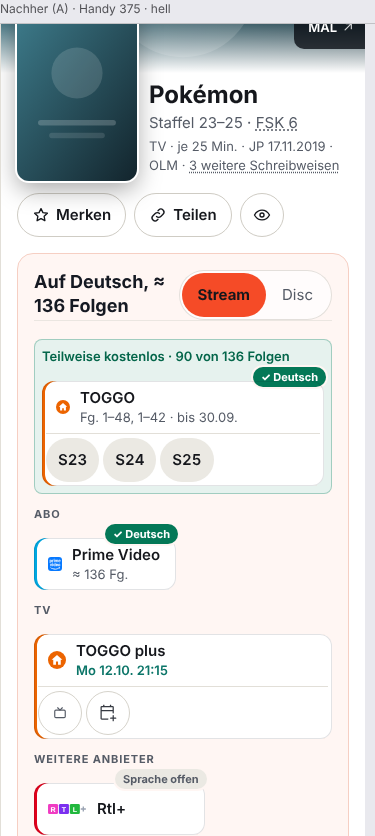
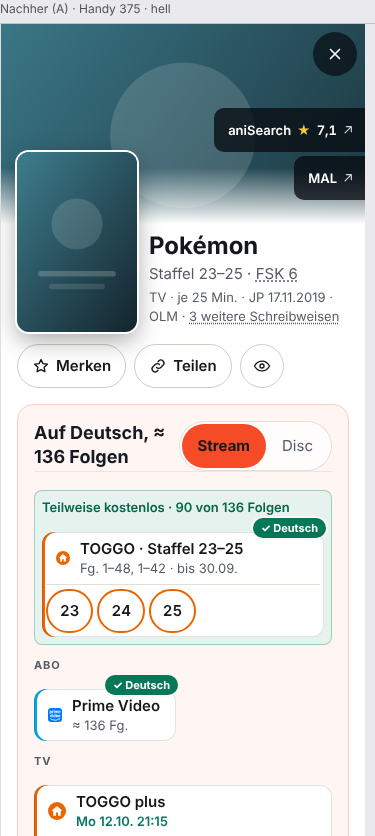
feat(panel): TOGGO-Staffelknöpfe – je Staffel ein Absprung bei gebündelten Titeln
Trägt tg der Folgenliste mindestens zwei verschiedene TOGGO-Adressen, ersetzt das Panel die TOGGO-Pille durch eine Fläche „TOGGO · Staffel 1–5“ mit je einem Zahlenknopf (mindestens 44 px, Rahmen in der Anbieterfarbe, neuer Tab). Die Pille bleibt in ihrer Zugangsgruppe. Nachbau-Teile des Mockups toggo-pillen entfallen; Variante A zeigt die echte Komponente (F158).

diff --git a/tools/buehne-toggo-pillen.test.ts b/tools/buehne-toggo-pillen.test.ts
@@ -1,11 +1,15 @@
 /**
- * Test der Absprünge des Mockups `toggo-pillen` (`web/buehne/mockups/toggo-pillen-liste.ts`) an den echten, eingefrorenen Fällen der Bühne:
- * Pokémon (Staffel 1–5) → fünf Seiten, Pokémon Reisen (Staffel 23–25) → drei; führen alle Staffeln auf dieselbe Adresse, bleibt es bei einer Pille.
+ * Test der Staffelknöpfe an TOGGO-Pillen (`web/src/lib/staffel-ziele.ts`, `web/src/components/detail/staffel-knoepfe.tsx`) an den echten, eingefrorenen Fällen der Bühne:
+ * Pokémon (Staffel 1–5) → fünf Knöpfe, Pokémon Reisen (Staffel 23–25) → drei; führen alle Staffeln auf dieselbe Adresse, bleibt es bei einer Pille.
  */
 import assert from 'node:assert/strict'
 import { readFileSync } from 'node:fs'
 import { fileURLToPath } from 'node:url'
-import { staffelZiele } from '../web/buehne/mockups/toggo-pillen-liste.ts'
+import { createElement } from 'react'
+import { renderToStaticMarkup } from 'react-dom/server'
+import { staffelSpanne, staffelZiele } from '../web/src/lib/staffel-ziele.ts'
+import { mitStaffelKnoepfen } from '../web/src/components/detail/staffel-knoepfe.tsx'
+import { Pille } from '../web/src/components/detail/pille.tsx'
 import { mockupMit } from '../web/buehne/register.ts'
 
 const datei = fileURLToPath(new URL('../web/buehne/faelle.json', import.meta.url))
@@ -13,9 +17,12 @@ const faelle = JSON.parse(readFileSync(datei, 'utf8')).faelle as Record<string, 
 const folgen = faelle['pokemon-horizonte']!.folgen
 
 const sammel = staffelZiele(folgen['483']!.tg)!
-assert.deepEqual(sammel.map((z) => z.label), ['S1', 'S2', 'S3', 'S4', 'S5'])
+assert.deepEqual(sammel.map((z) => z.nummer), ['1', '2', '3', '4', '5'])
 assert.deepEqual(sammel.map((z) => z.url.split('/').pop()), ['pokemon-indigo-liga', 'pokemon-orange-liga', 'pokemon-die-johto-reisen', 'pokemon-die-johto-liga-champions', 'pokemon-master-quest'])
-assert.deepEqual(staffelZiele(folgen['10852']!.tg)!.map((z) => z.label), ['S23', 'S24', 'S25'])
+assert.deepEqual(staffelSpanne(sammel), { von: 1, bis: 5 })
+const reisen = staffelZiele(folgen['10852']!.tg)!
+assert.deepEqual(reisen.map((z) => z.nummer), ['23', '24', '25'])
+assert.deepEqual(staffelSpanne(reisen), { von: 23, bis: 25 })
 
 // Gegenfall: alle Staffeln führen auf dieselbe Adresse (wie bei Netflix: ein Titel, eine Adresse) → nicht aufteilen; ebenso eine Staffel und keine Angabe.
 const eine = 'https://www.toggo.de/pokemon/serien/pokemon-horizonte-die-serie-vse292'
@@ -26,11 +33,28 @@ assert.equal(staffelZiele(folgen['14838']!.tg), undefined)
 
 // Teilen sich Staffeln eine Adresse, steht eine Beschriftung für beide; Reihenfolge nach Staffelnummer auch bei umgekehrter Eingabe.
 const gemischt = staffelZiele([[16, 'https://x.invalid/b'], [15, 'https://x.invalid/a'], [16, 'https://x.invalid/a']])!
-assert.deepEqual(gemischt.map((z) => [z.label, z.url]), [['S15–16', 'https://x.invalid/a'], ['S16', 'https://x.invalid/b']])
+assert.deepEqual(gemischt.map((z) => [z.nummer, z.url]), [['15–16', 'https://x.invalid/a'], ['16', 'https://x.invalid/b']])
+assert.deepEqual(staffelSpanne(gemischt), { von: 15, bis: 16 })
 
-// Das Mockup ist angemeldet, zwei Varianten, beide Fälle gibt es.
+// Die Pille: nur die TOGGO-Pille wird zur Knopffläche (gleicher key), alles andere bleibt dieselbe Instanz.
+const t = ((k: string, v?: Record<string, string | number>) => (k === 'detail.staffelBereich' ? `Staffel ${v!.von}–${v!.bis}` : `Staffel ${v!.n}`)) as never
+const toggo = createElement(Pille, { key: 'sw-TOGGO-https://x', name: 'TOGGO', farbe: '#ff0066', url: 'https://www.toggo.de/pokemon' })
+const netflix = createElement(Pille, { key: 'sw-Netflix-https://n', name: 'Netflix', url: 'https://www.netflix.com/x' })
+assert.equal(mitStaffelKnoepfen([toggo, netflix], undefined, t)[0], toggo)
+const neu = mitStaffelKnoepfen([toggo, netflix], sammel, t)
+assert.equal(neu[1], netflix)
+assert.equal((neu[0] as { key: string }).key, 'sw-TOGGO-https://x')
+const html = renderToStaticMarkup(createElement('div', null, neu))
+assert.match(html, /TOGGO · Staffel 1–5/)
+assert.equal((html.match(/min-h-11/g) ?? []).length, 5)
+assert.match(html, /aria-label="TOGGO, Staffel 3"/)
+assert.match(html, /href="https:\/\/www\.toggo\.de\/pokemon\/serien\/pokemon-die-johto-reisen"[^>]*target="_blank"/)
+assert.doesNotMatch(html, /href="https:\/\/www\.toggo\.de\/pokemon"/)
+assert.match(renderToStaticMarkup(createElement('div', null, mitStaffelKnoepfen([toggo], gemischt, t))), /aria-label="TOGGO, Staffel 15–16"/)
+
+// Das Mockup ist angemeldet, eine Variante (A, entschieden F158), beide Fälle gibt es.
 await import('../web/buehne/mockups/toggo-pillen.tsx')
 const m = mockupMit('toggo-pillen')!
-assert.deepEqual(Object.keys(m.varianten), ['A', 'B'])
+assert.deepEqual(Object.keys(m.varianten), ['A'])
 for (const f of m.faelle) assert.ok(f === 'pokemon-sammeltitel' || f === 'pokemon-reisen')
 console.log('buehne-toggo-pillen: ok')

diff --git a/web/buehne/mockups/toggo-pillen.tsx b/web/buehne/mockups/toggo-pillen.tsx
@@ -1,20 +1,15 @@
 import { mockup } from '../register.ts'
-import { KastenMitTitel, toggoKastenPillen } from './toggo-pillen-teile.tsx'
 
-/** Beide Varianten: der Kasten trägt die Titelkennung, die TOGGO-Pille wird je Staffelseite aufgeteilt (nur bei mindestens zwei verschiedenen Adressen). */
+/** Entschieden (F158, 24.11.2026): Variante A. Seit dem Bau ist sie die echte Komponente (`staffel-knoepfe.tsx`), das Mockup zeigt sie ohne Ersatz und dient als Bildvergleich. */
 mockup({
   name: 'toggo-pillen',
-  titel: 'Gebündelte Staffeln: eine TOGGO-Pille, ein Absprung je Staffel',
+  titel: 'Gebündelte Staffeln: eine TOGGO-Fläche, ein Absprung je Staffel',
   ausschnitt: 'detailpanel',
   faelle: ['pokemon-sammeltitel', 'pokemon-reisen'],
   varianten: {
     A: {
-      ersatz: { AntwortKasten: KastenMitTitel, KastenPillen: toggoKastenPillen('A') },
-      notiz: 'Eine TOGGO-Pille bleibt, überschrieben „TOGGO · Staffel 1–5“ (der Bereich, den dieser Anbieter führt), darunter in ihrer Fläche je Staffel ein Knopf nur mit der Zahl (1 bis 5, Rahmen in der Anbieterfarbe, mindestens 44 px) mit der Seite dieser Staffel bei TOGGO. Der Sprachhinweis steht einmal. Netflix, Prime Video und RTL+ führen mit einer Adresse auf den ganzen Titel: eine Pille wie heute. Pokémon (Staffel 1–5): fünf Knöpfe; Pokémon Reisen (Staffel 23–25): drei. Die Adressen sind die der Folgenliste (`tg`), keine ergänzt.',
-    },
-    B: {
-      ersatz: { AntwortKasten: KastenMitTitel, KastenPillen: toggoKastenPillen('B') },
-      notiz: 'Je Staffel eine eigene TOGGO-Pille („Staffel 1“ …), die direkt auf die Seite der Staffel führt; der Sprachhinweis nur an der ersten; die Folgenangabe der einen Pille („Fg. 1–48 · bis 30.09.“) entfällt, an ihrer Stelle steht die Staffel. Mehr Fläche (am Handy zwei Pillen je Zeile), dafür ein Tipp ohne Umweg. Netflix, Prime Video und RTL+ bleiben eine Pille, weil alle Staffeln auf dieselbe Adresse führen.',
+      ersatz: {},
+      notiz: 'In der Zugangsgruppe „Kostenlos“ steht eine TOGGO-Fläche „TOGGO · Staffel 1–5“, darin je Staffel ein Knopf mit der Zahl (mindestens 44 px, Rahmen in der Anbieterfarbe) und der Seite dieser Staffel bei TOGGO. Netflix, Prime Video und RTL+ führen mit einer Adresse auf den ganzen Titel: eine Pille wie bisher. Pokémon (Staffel 1–5): fünf Knöpfe; Pokémon Reisen (Staffel 23–25): drei. Die Adressen sind die der Folgenliste (`tg`), keine ergänzt.',
     },
   },
 })

diff --git a/web/src/components/detail/staffel-knoepfe.tsx b/web/src/components/detail/staffel-knoepfe.tsx
@@ -1,0 +1,41 @@
+import { isValidElement, type ComponentProps, type ReactElement, type ReactNode } from 'react'
+import { staffelSpanne, type StaffelZiel } from '../../lib/staffel-ziele.ts'
+import { Pille } from './pille.tsx'
+
+type Translate = (k: string, v?: Record<string, string | number>) => string
+
+type PilleEigenschaften = ComponentProps<typeof Pille>
+
+const KNOPF = 'inline-flex min-h-11 min-w-11 items-center justify-center rounded-full border-2 px-3 text-t3 font-semibold tabular-nums text-ak-text transition hover:bg-ak-pille-hover'
+
+const staffelText = (t: Translate, n: string | number) => t('detail.staffelNummer', { n })
+
+/** Eine TOGGO-Fläche statt einer Pille: Überschrift „TOGGO · Staffel 1–5“, darin je Adresse ein Zahlenknopf (mindestens 44 px, Rahmen in der Anbieterfarbe). */
+export function PilleMitKnoepfen({ eig, ziele, t }: { eig: PilleEigenschaften; ziele: StaffelZiel[]; t: Translate }) {
+  const { von, bis } = staffelSpanne(ziele)
+  const bereich = von === bis ? staffelText(t, von) : t('detail.staffelBereich', { von, bis })
+  return (
+    <Pille
+      {...eig}
+      name={`${String(eig.name)} · ${bereich}`}
+      url={undefined}
+      fuss={
+        <div role="group" aria-label={`${String(eig.name)}, ${bereich}`} className="flex flex-wrap gap-1">
+          {ziele.map((z) => (
+            <a key={z.url} href={z.url} target="_blank" rel="noreferrer noopener" aria-label={`${String(eig.name)}, ${staffelText(t, z.nummer)}`} className={KNOPF} style={{ borderColor: eig.farbe }}>
+              {z.nummer}
+            </a>
+          ))}
+        </div>
+      }
+    />
+  )
+}
+
+const istToggoWeg = (n: ReactNode): n is ReactElement<PilleEigenschaften> => isValidElement(n) && String(n.key).startsWith('sw-TOGGO-')
+
+/** Ersetzt die TOGGO-Pille der Wege durch die Knopffläche (mit demselben `key`: die Zugangsgruppe hängt daran); ohne Staffelseiten bleibt alles wie es ist. */
+export function mitStaffelKnoepfen(pillen: ReactNode[], ziele: StaffelZiel[] | undefined, t: Translate): ReactNode[] {
+  if (!ziele) return pillen
+  return pillen.map((n) => (istToggoWeg(n) ? <PilleMitKnoepfen key={n.key} eig={n.props} ziele={ziele} t={t} /> : n))
+}

diff --git a/web/src/components/detail/folgen-bereich.tsx b/web/src/components/detail/folgen-bereich.tsx
@@ -7,6 +7,7 @@ import { folgeIstDeutsch } from './stream-bereiche.ts'
 import { SERIENBELEG_HINWEIS, serienbelegOhneFolgenbeleg } from '@shared/folgen-flagge.ts'
 import { staffelAbschnitte, staffelZeile, type StaffelZeile } from './folgen-staffeln.ts'
 import type { FolgenZaehlung } from './antwort-regeln.ts'
+import { staffelZiele, type StaffelZiel } from '../../lib/staffel-ziele.ts'
 
 /**
  * **Die Folgenliste im Antwortkasten** (Daniel, 04.10.2026): Ein Pfeil klappt sie auf, der Kasten wächst mit,
@@ -26,6 +27,8 @@ interface Liste {
   h?: [number, string][]
   /** Deutsche Staffelgrenzen (`folgen-staffeln.ts`): Reiter je Staffel statt Paketen. */
   s?: StaffelZeile[]
+  /** TOGGO-Seite je Staffel: `[Staffelnummer, Adresse]`. */
+  tg?: [number, string][]
 }
 
 const PAKET = 50
@@ -65,6 +68,23 @@ export function useStaffelGrenzen(titleId: number): StaffelZeile[] | undefined {
     }
   }, [titleId])
   return s
+}
+
+/** Die TOGGO-Seiten je Staffel (`tg` der Folgenliste), solange sie verschieden sind; ohne Liste oder bei einer Adresse nichts. */
+export function useStaffelZiele(titleId: number): StaffelZiel[] | undefined {
+  const [ziele, setZiele] = useState<StaffelZiel[]>()
+  useEffect(() => {
+    setZiele(undefined)
+    let aktiv = true
+    void holeVerzeichnis()
+      .then((v) => (v.has(titleId) ? holeListe(titleId) : null))
+      .then((l) => aktiv && setZiele(l ? staffelZiele(l.tg) : undefined))
+      .catch(() => aktiv && setZiele(undefined))
+    return () => {
+      aktiv = false
+    }
+  }, [titleId])
+  return ziele
 }
 
 let zaehlungen: Promise<Record<string, FolgenZaehlung>> | undefined

diff --git a/web/src/components/detail/antwort-kasten-zustand.tsx b/web/src/components/detail/antwort-kasten-zustand.tsx
@@ -1,6 +1,7 @@
 import { type ReactNode, useState } from 'react'
 import { ankuendigungOhneTermin } from '@shared/ankuendigung.ts'
-import { useKopfZahlen } from './folgen-bereich.tsx'
+import { useKopfZahlen, useStaffelZiele } from './folgen-bereich.tsx'
+import { mitStaffelKnoepfen } from './staffel-knoepfe.tsx'
 import { gruppeVon as gruppeVonPille, sichtbareStreamPillen } from './stream-pillen.ts'
 import { erstausgabeAlsNeuigkeit } from './antwort-regeln.ts'
 import { abstandImSatz } from '../../lib/abstand.ts'
@@ -24,6 +25,7 @@ export function useKastenZustand(p: Required<Pick<AntwortKastenProps, 'stream' |
     kostet keine Höhe mehr.
   */
   const [zeigeDisc, setZeigeDisc] = useState(discZuerst); const { folgenZahl, staffeln } = useKopfZahlen(title.id)
+  const staffelZiele = useStaffelZiele(title.id)
   /*
     **Wo noch nichts erschienen ist, gibt es nichts zu sehen.**
 
@@ -41,7 +43,7 @@ export function useKastenZustand(p: Required<Pick<AntwortKastenProps, 'stream' |
   const beides = streamPillen.length > 0 && disc.length > 0
   /* Der Umschalter zeigt nur Seiten mit Pillen; eine einzelne bleibt als Etikett (Kaufpille = „Disc"). */
   const aktivDisc = beides ? zeigeDisc : streamPillen.length === 0
-  const pillen = aktivDisc ? disc : streamPillen
+  const pillen = aktivDisc ? disc : mitStaffelKnoepfen(streamPillen, staffelZiele, t as unknown as Uebersetzer)
   const T = t as unknown as Uebersetzer
   /*
     **Kostenlos ist ein eigener Bereich** (Daniel, 19.09.2026: „trenn die bereiche, sodass es

diff --git a/web/src/lib/staffel-ziele.ts b/web/src/lib/staffel-ziele.ts
@@ -1,0 +1,28 @@
+/** Eine Staffelseite bei TOGGO: Beschriftung (`nummer`: „3“ oder „15–16“), die Staffeln dahinter und die Adresse aus `tg` der Folgenliste. */
+export interface StaffelZiel {
+  nummer: string
+  staffeln: number[]
+  url: string
+}
+
+/**
+ * Die Absprünge einer gebündelten Pille: je **verschiedener** Adresse einer (Staffeln mit derselben Adresse teilen sich eine Beschriftung).
+ * Führen alle Staffeln auf dieselbe Adresse, oder gibt es keine zwei, bleibt es bei einer Pille (`undefined`).
+ */
+export function staffelZiele(tg: [number, string][] | undefined): StaffelZiel[] | undefined {
+  const jeAdresse = new Map<string, number[]>()
+  for (const [nr, url] of tg ?? []) jeAdresse.set(url, [...(jeAdresse.get(url) ?? []), nr])
+  if (jeAdresse.size < 2) return undefined
+  return [...jeAdresse]
+    .map(([url, nummern]) => {
+      const staffeln = [...nummern].sort((a, b) => a - b)
+      return { nummer: staffeln.length > 1 ? `${staffeln[0]}–${staffeln.at(-1)}` : String(staffeln[0]), staffeln, url }
+    })
+    .sort((a, b) => a.staffeln[0]! - b.staffeln[0]!)
+}
+
+/** Erste und letzte Staffel, die der Anbieter führt: `{ von: 1, bis: 5 }`. */
+export function staffelSpanne(ziele: StaffelZiel[]): { von: number; bis: number } {
+  const alle = ziele.flatMap((z) => z.staffeln)
+  return { von: Math.min(...alle), bis: Math.max(...alle) }
+}
